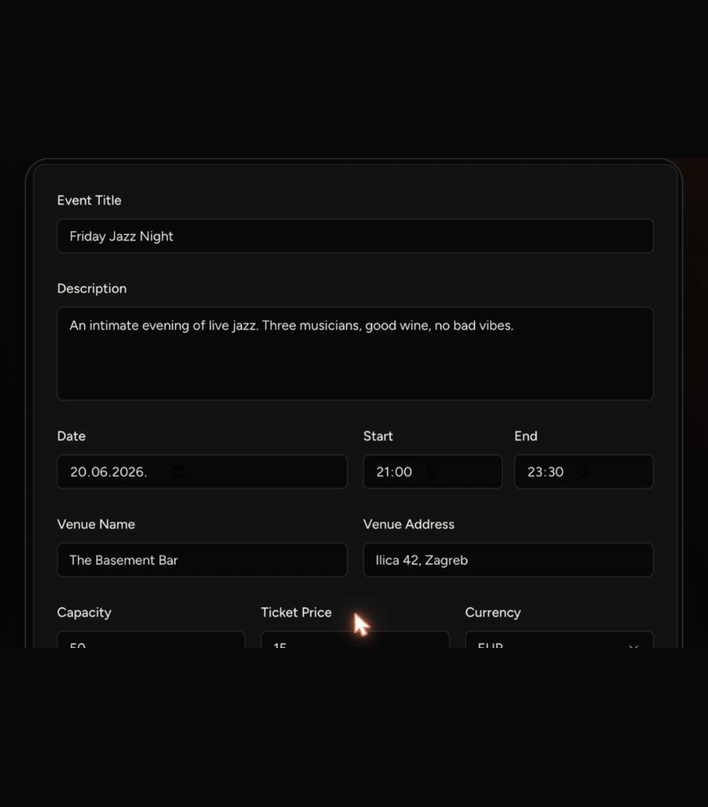
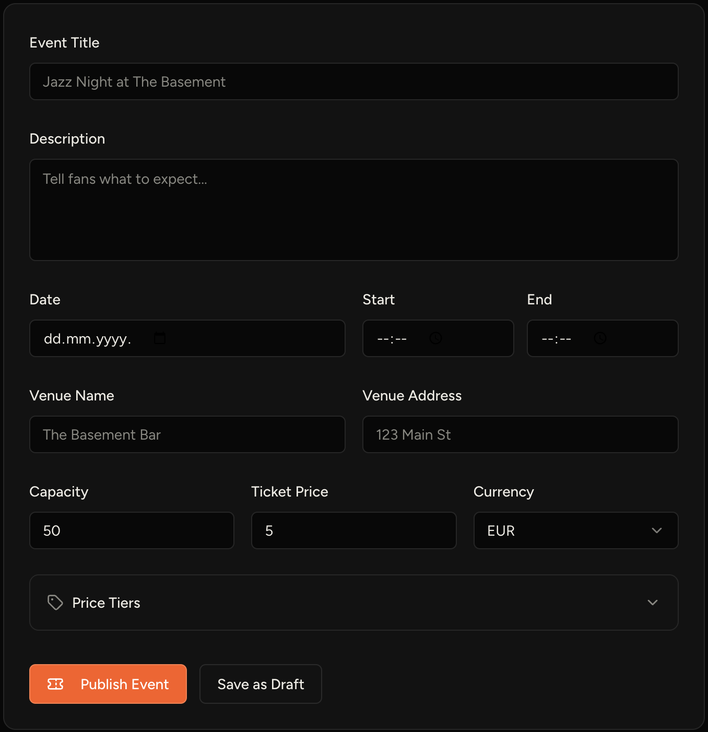
Hero screenshot: clean desktop Create Event form

diff --git a/index.html b/index.html
@@ -16,7 +16,7 @@
 <meta name="twitter:description" content="Simple ticketing for independent venue owners. Set up an event in minutes, sell tickets with zero fees to fans, and scan the door from your phone.">
 <meta name="twitter:image" content="https://evntry.app/og-image.png">
 <title>Evntry — Ticketing for local venues</title>
-<link rel="preload" as="image" href="app-screenshot-card.png?v=10">
+<link rel="preload" as="image" href="app-screenshot-card.png?v=11">
 <link rel="stylesheet" href="fonts.css">
 <link rel="icon" type="image/svg+xml" href="/favicon.svg">
 <link rel="apple-touch-icon" href="/favicon.svg">
@@ -144,7 +144,7 @@
   </div>
 
   <div class="app-preview">
-    <img src="app-screenshot-card.png?v=10" alt="Evntry event creation form — set up an event in minutes" class="app-preview-img" width="708" height="807" fetchpriority="high">
+    <img src="app-screenshot-card.png?v=11" alt="Evntry event creation form — set up an event in minutes" class="app-preview-img" width="708" height="732" fetchpriority="high">
   </div>
 </section>
 